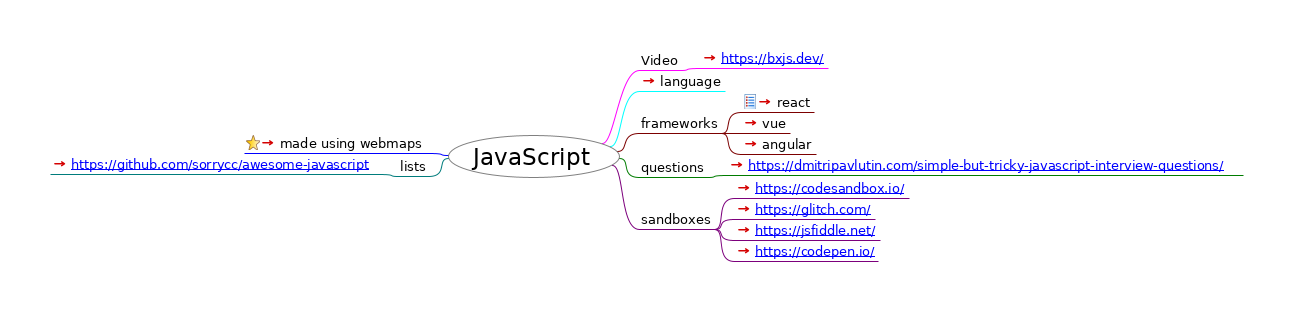
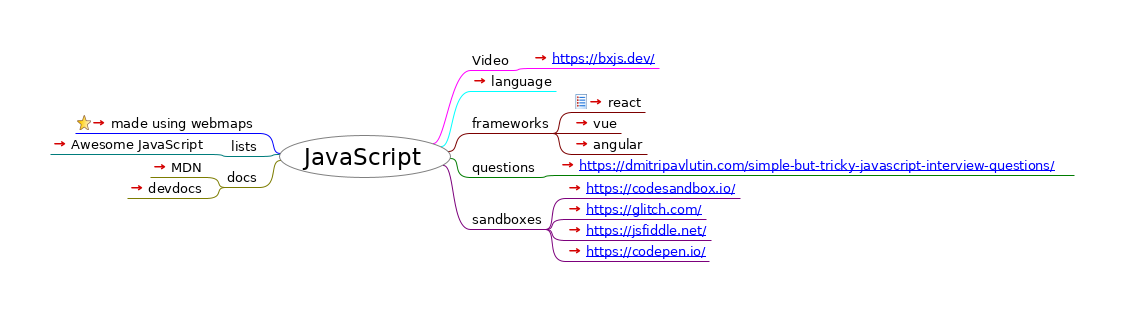
add devdocs

Changed region(s): [[0.0311, 0.1736, 0.9653, 0.8682]]

diff --git a/index.html b/index.html
@@ -23,33 +23,34 @@
                    };
                };
           
-          --></script></head><body><h1>JavaScript</h1><div style="width:96%;  padding:2%;  margin-bottom:10px;  border: 0px;  text-align:center;  vertical-align:center;"><img src="index.html_files/image.png" style="margin-bottom:10px; &#9;border: 0px; &#9;text-align:center; &#9;vertical-align:center;" alt="Imagemap" usemap="#fm_imagemap" /></div><map name="fm_imagemap" id="fm_imagemap"><area shape="rect" href="#FMID_110073400FM" alt="JavaScript" title="JavaScript" coords="448,135,620,178" />
-<area shape="rect" href="https://github.com/solidpayorg/webmaps/" alt="made using webmaps" title="made using webmaps" coords="244,135,429,153" />
-<area shape="rect" href="#FMID_829378880FM" alt="lists" title="lists" coords="398,158,429,176" />
-<area shape="rect" href="https://github.com/sorrycc/awesome-javascript" alt="https://github.com/sorrycc/awesome-javas ..." title="https://github.com/sorrycc/awesome-javas ..." coords="50,156,379,174" />
-<area shape="rect" href="#FMID_849215328FM" alt="Video" title="Video" coords="639,52,681,70" />
-<area shape="rect" href="https://bxjs.dev/" alt="https://bxjs.dev/" title="https://bxjs.dev/" coords="700,50,828,68" />
-<area shape="rect" href="language.html" alt="language" title="language" coords="639,73,725,91" />
-<area shape="rect" href="#FMID_153818301FM" alt="frameworks" title="frameworks" coords="639,115,722,133" />
-<area shape="rect" href="react/index.html" alt="react" title="react" coords="741,94,814,112" />
-<area shape="rect" href="https://vuejs.org/" alt="vue" title="vue" coords="741,115,790,133" />
-<area shape="rect" href="https://angular.io/" alt="angular" title="angular" coords="741,136,816,154" />
-<area shape="rect" href="#FMID_1450636763FM" alt="questions" title="questions" coords="639,159,708,177" />
-<area shape="rect" href="https://dmitripavlutin.com/simple-but-tricky-javascript-interview-questions/" alt="https://dmitripavlutin.com/simple-but-tr ..." title="https://dmitripavlutin.com/simple-but-tr ..." coords="727,157,1243,175" />
-<area shape="rect" href="#FMID_1460537766FM" alt="sandboxes" title="sandboxes" coords="639,211,715,229" />
-<area shape="rect" href="https://codesandbox.io/" alt="https://codesandbox.io/" title="https://codesandbox.io/" coords="734,180,909,198" />
-<area shape="rect" href="https://glitch.com/" alt="https://glitch.com/" title="https://glitch.com/" coords="734,201,875,219" />
-<area shape="rect" href="https://jsfiddle.net/" alt="https://jsfiddle.net/" title="https://jsfiddle.net/" coords="734,222,880,240" />
-<area shape="rect" href="https://codepen.io/" alt="https://codepen.io/" title="https://codepen.io/" coords="734,243,878,261" />
+          --></script></head><body><h1>JavaScript</h1><div style="width:96%;  padding:2%;  margin-bottom:10px;  border: 0px;  text-align:center;  vertical-align:center;"><img src="index.html_files/image.png" style="margin-bottom:10px; &#9;border: 0px; &#9;text-align:center; &#9;vertical-align:center;" alt="Imagemap" usemap="#fm_imagemap" /></div><map name="fm_imagemap" id="fm_imagemap"><area shape="rect" href="#FMID_110073400FM" alt="JavaScript" title="JavaScript" coords="279,135,451,178" />
+<area shape="rect" href="https://github.com/solidpayorg/webmaps/" alt="made using webmaps" title="made using webmaps" coords="75,115,260,133" />
+<area shape="rect" href="#FMID_829378880FM" alt="lists" title="lists" coords="229,138,260,156" />
+<area shape="rect" href="https://github.com/sorrycc/awesome-javascript" alt="Awesome JavaScript" title="Awesome JavaScript" coords="50,136,210,154" />
+<area shape="rect" href="#FMID_1425964050FM" alt="docs" title="docs" coords="225,169,260,187" />
+<area shape="rect" href="https://developer.mozilla.org/en-US/docs/Web/JavaScript" alt="MDN" title="MDN" coords="150,159,206,177" />
+<area shape="rect" href="https://devdocs.io/javascript/" alt="devdocs" title="devdocs" coords="127,180,206,198" />
+<area shape="rect" href="#FMID_849215328FM" alt="Video" title="Video" coords="470,52,512,70" />
+<area shape="rect" href="https://bxjs.dev/" alt="https://bxjs.dev/" title="https://bxjs.dev/" coords="531,50,659,68" />
+<area shape="rect" href="language.html" alt="language" title="language" coords="470,73,556,91" />
+<area shape="rect" href="#FMID_153818301FM" alt="frameworks" title="frameworks" coords="470,115,553,133" />
+<area shape="rect" href="react/index.html" alt="react" title="react" coords="572,94,645,112" />
+<area shape="rect" href="https://vuejs.org/" alt="vue" title="vue" coords="572,115,621,133" />
+<area shape="rect" href="https://angular.io/" alt="angular" title="angular" coords="572,136,647,154" />
+<area shape="rect" href="#FMID_1450636763FM" alt="questions" title="questions" coords="470,159,539,177" />
+<area shape="rect" href="https://dmitripavlutin.com/simple-but-tricky-javascript-interview-questions/" alt="https://dmitripavlutin.com/simple-but-tr ..." title="https://dmitripavlutin.com/simple-but-tr ..." coords="558,157,1074,175" />
+<area shape="rect" href="#FMID_1460537766FM" alt="sandboxes" title="sandboxes" coords="470,211,546,229" />
+<area shape="rect" href="https://codesandbox.io/" alt="https://codesandbox.io/" title="https://codesandbox.io/" coords="565,180,740,198" />
+<area shape="rect" href="https://glitch.com/" alt="https://glitch.com/" title="https://glitch.com/" coords="565,201,706,219" />
+<area shape="rect" href="https://jsfiddle.net/" alt="https://jsfiddle.net/" title="https://jsfiddle.net/" coords="565,222,711,240" />
+<area shape="rect" href="https://codepen.io/" alt="https://codepen.io/" title="https://codepen.io/" coords="565,243,709,261" />
 </map>
 
-<div class="node"><img src="index.html_files/hide.png" class="hideshow" alt="hide" onClick="toggle(&quot;N65543&quot;)" id="imgN65543" /><a id="FMID_110073400FM" /><div class="nodecontent" style="color:#000000;font-size:150%;">JavaScript</div><div class="content" id="N65543"><div class="node"><img src="index.html_files/leaf.png" class="hideshow" alt="leaf" /><img src="index.html_files/icons/bookmark.svg" alt="bookmark" /> <a id="FMID_634574866FM" /><div class="nodecontent" style="color:#000000;font-size:83%;"><a href="https://github.com/solidpayorg/webmaps/">made using webmaps</a> <a href="https://github.com/solidpayorg/webmaps/"><img src="index.html_files/ilink.png" alt="User Link" style="border-width:0" /></a></div></div><div class="node"><img src="index.html_files/hide.png" class="hideshow" alt="hide" onClick="toggle(&quot;N66482&quot;)" id="imgN66482" /><a id="FMID_829378880FM" /><div class="nodecontent" style="color:#000000;font-size:83%;">lists</div><div class="content" id="N66482"><div class="node"><img src="index.html_files/leaf.png" class="hideshow" alt="leaf" /><a id="FMID_157748484FM" /><div class="nodecontent" style="color:#000000;font-size:83%;"><a href="https://github.com/sorrycc/awesome-javascript">
-    <a http-equiv="content-type" content="text/html; charset=utf-8" href="https://github.com/sorrycc/awesome-javascript">https://github.com/sorrycc/awesome-javascript</a>
-  </a> <a href="https://github.com/sorrycc/awesome-javascript"><img src="index.html_files/ilink.png" alt="User Link" style="border-width:0" /></a></div></div></div></div><div class="node"><img src="index.html_files/hide.png" class="hideshow" alt="hide" onClick="toggle(&quot;N66574&quot;)" id="imgN66574" /><a id="FMID_849215328FM" /><div class="nodecontent" style="color:#000000;font-size:83%;">Video</div><div class="content" id="N66574"><div class="node"><img src="index.html_files/leaf.png" class="hideshow" alt="leaf" /><a id="FMID_1384859362FM" /><div class="nodecontent" style="color:#000000;font-size:83%;"><a href="https://bxjs.dev/">
+<div class="node"><img src="index.html_files/hide.png" class="hideshow" alt="hide" onClick="toggle(&quot;N65543&quot;)" id="imgN65543" /><a id="FMID_110073400FM" /><div class="nodecontent" style="color:#000000;font-size:150%;">JavaScript</div><div class="content" id="N65543"><div class="node"><img src="index.html_files/leaf.png" class="hideshow" alt="leaf" /><img src="index.html_files/icons/bookmark.svg" alt="bookmark" /> <a id="FMID_634574866FM" /><div class="nodecontent" style="color:#000000;font-size:83%;"><a href="https://github.com/solidpayorg/webmaps/">made using webmaps</a> <a href="https://github.com/solidpayorg/webmaps/"><img src="index.html_files/ilink.png" alt="User Link" style="border-width:0" /></a></div></div><div class="node"><img src="index.html_files/hide.png" class="hideshow" alt="hide" onClick="toggle(&quot;N66482&quot;)" id="imgN66482" /><a id="FMID_829378880FM" /><div class="nodecontent" style="color:#000000;font-size:83%;">lists</div><div class="content" id="N66482"><div class="node"><img src="index.html_files/leaf.png" class="hideshow" alt="leaf" /><a id="FMID_157748484FM" /><div class="nodecontent" style="color:#000000;font-size:83%;"><a href="https://github.com/sorrycc/awesome-javascript">Awesome JavaScript</a> <a href="https://github.com/sorrycc/awesome-javascript"><img src="index.html_files/ilink.png" alt="User Link" style="border-width:0" /></a></div></div></div></div><div class="node"><img src="index.html_files/hide.png" class="hideshow" alt="hide" onClick="toggle(&quot;N66556&quot;)" id="imgN66556" /><a id="FMID_1425964050FM" /><div class="nodecontent" style="color:#000000;font-size:83%;">docs</div><div class="content" id="N66556"><div class="node"><img src="index.html_files/leaf.png" class="hideshow" alt="leaf" /><a id="FMID_773205118FM" /><div class="nodecontent" style="color:#000000;font-size:83%;"><a href="https://developer.mozilla.org/en-US/docs/Web/JavaScript">MDN</a> <a href="https://developer.mozilla.org/en-US/docs/Web/JavaScript"><img src="index.html_files/ilink.png" alt="User Link" style="border-width:0" /></a></div></div><div class="node"><img src="index.html_files/leaf.png" class="hideshow" alt="leaf" /><a id="FMID_83129282FM" /><div class="nodecontent" style="color:#000000;font-size:83%;"><a href="https://devdocs.io/javascript/">devdocs</a> <a href="https://devdocs.io/javascript/"><img src="index.html_files/ilink.png" alt="User Link" style="border-width:0" /></a></div></div></div></div><div class="node"><img src="index.html_files/hide.png" class="hideshow" alt="hide" onClick="toggle(&quot;N66667&quot;)" id="imgN66667" /><a id="FMID_849215328FM" /><div class="nodecontent" style="color:#000000;font-size:83%;">Video</div><div class="content" id="N66667"><div class="node"><img src="index.html_files/leaf.png" class="hideshow" alt="leaf" /><a id="FMID_1384859362FM" /><div class="nodecontent" style="color:#000000;font-size:83%;"><a href="https://bxjs.dev/">
     <a http-equiv="content-type" content="text/html; charset=utf-8" href="https://bxjs.dev/">https://bxjs.dev/</a>
-  </a> <a href="https://bxjs.dev/"><img src="index.html_files/ilink.png" alt="User Link" style="border-width:0" /></a></div></div></div></div><div class="node"><img src="index.html_files/leaf.png" class="hideshow" alt="leaf" /><a id="FMID_1566689685FM" /><div class="nodecontent" style="color:#000000;font-size:83%;"><a href="language.html">language</a> <a href="language.html"><img src="index.html_files/ilink.png" alt="User Link" style="border-width:0" /></a></div></div><div class="node"><img src="index.html_files/hide.png" class="hideshow" alt="hide" onClick="toggle(&quot;N66704&quot;)" id="imgN66704" /><a id="FMID_153818301FM" /><div class="nodecontent" style="color:#000000;font-size:83%;">frameworks</div><div class="content" id="N66704"><div class="node"><img src="index.html_files/leaf.png" class="hideshow" alt="leaf" /><img src="index.html_files/icons/list.svg" alt="list" /> <a id="FMID_921980201FM" /><div class="nodecontent" style="color:#000000;font-size:83%;"><a href="react/index.html">react</a> <a href="react/index.html"><img src="index.html_files/ilink.png" alt="User Link" style="border-width:0" /></a></div></div><div class="node"><img src="index.html_files/leaf.png" class="hideshow" alt="leaf" /><a id="FMID_850712897FM" /><div class="nodecontent" style="color:#000000;font-size:83%;"><a href="https://vuejs.org/">vue</a> <a href="https://vuejs.org/"><img src="index.html_files/ilink.png" alt="User Link" style="border-width:0" /></a></div></div><div class="node"><img src="index.html_files/leaf.png" class="hideshow" alt="leaf" /><a id="FMID_101804111FM" /><div class="nodecontent" style="color:#000000;font-size:83%;"><a href="https://angular.io/">angular</a> <a href="https://angular.io/"><img src="index.html_files/ilink.png" alt="User Link" style="border-width:0" /></a></div></div></div></div><div class="node"><img src="index.html_files/hide.png" class="hideshow" alt="hide" onClick="toggle(&quot;N66857&quot;)" id="imgN66857" /><a id="FMID_1450636763FM" /><div class="nodecontent" style="color:#000000;font-size:83%;">questions</div><div class="content" id="N66857"><div class="node"><img src="index.html_files/leaf.png" class="hideshow" alt="leaf" /><a id="FMID_83102648FM" /><div class="nodecontent" style="color:#000000;font-size:83%;"><a href="https://dmitripavlutin.com/simple-but-tricky-javascript-interview-questions/">
+  </a> <a href="https://bxjs.dev/"><img src="index.html_files/ilink.png" alt="User Link" style="border-width:0" /></a></div></div></div></div><div class="node"><img src="index.html_files/leaf.png" class="hideshow" alt="leaf" /><a id="FMID_1566689685FM" /><div class="nodecontent" style="color:#000000;font-size:83%;"><a href="language.html">language</a> <a href="language.html"><img src="index.html_files/ilink.png" alt="User Link" style="border-width:0" /></a></div></div><div class="node"><img src="index.html_files/hide.png" class="hideshow" alt="hide" onClick="toggle(&quot;N66797&quot;)" id="imgN66797" /><a id="FMID_153818301FM" /><div class="nodecontent" style="color:#000000;font-size:83%;">frameworks</div><div class="content" id="N66797"><div class="node"><img src="index.html_files/leaf.png" class="hideshow" alt="leaf" /><img src="index.html_files/icons/list.svg" alt="list" /> <a id="FMID_921980201FM" /><div class="nodecontent" style="color:#000000;font-size:83%;"><a href="react/index.html">react</a> <a href="react/index.html"><img src="index.html_files/ilink.png" alt="User Link" style="border-width:0" /></a></div></div><div class="node"><img src="index.html_files/leaf.png" class="hideshow" alt="leaf" /><a id="FMID_850712897FM" /><div class="nodecontent" style="color:#000000;font-size:83%;"><a href="https://vuejs.org/">vue</a> <a href="https://vuejs.org/"><img src="index.html_files/ilink.png" alt="User Link" style="border-width:0" /></a></div></div><div class="node"><img src="index.html_files/leaf.png" class="hideshow" alt="leaf" /><a id="FMID_101804111FM" /><div class="nodecontent" style="color:#000000;font-size:83%;"><a href="https://angular.io/">angular</a> <a href="https://angular.io/"><img src="index.html_files/ilink.png" alt="User Link" style="border-width:0" /></a></div></div></div></div><div class="node"><img src="index.html_files/hide.png" class="hideshow" alt="hide" onClick="toggle(&quot;N66950&quot;)" id="imgN66950" /><a id="FMID_1450636763FM" /><div class="nodecontent" style="color:#000000;font-size:83%;">questions</div><div class="content" id="N66950"><div class="node"><img src="index.html_files/leaf.png" class="hideshow" alt="leaf" /><a id="FMID_83102648FM" /><div class="nodecontent" style="color:#000000;font-size:83%;"><a href="https://dmitripavlutin.com/simple-but-tricky-javascript-interview-questions/">
     <a http-equiv="content-type" content="text/html; charset=utf-8" href="https://dmitripavlutin.com/simple-but-tricky-javascript-interview-questions/">https://dmitripavlutin.com/simple-but-tricky-javascript-interview-questions/</a>
-  </a> <a href="https://dmitripavlutin.com/simple-but-tricky-javascript-interview-questions/"><img src="index.html_files/ilink.png" alt="User Link" style="border-width:0" /></a></div></div></div></div><div class="node"><img src="index.html_files/hide.png" class="hideshow" alt="hide" onClick="toggle(&quot;N66949&quot;)" id="imgN66949" /><a id="FMID_1460537766FM" /><div class="nodecontent" style="color:#000000;font-size:83%;">sandboxes</div><div class="content" id="N66949"><div class="node"><img src="index.html_files/leaf.png" class="hideshow" alt="leaf" /><a id="FMID_899668548FM" /><div class="nodecontent" style="color:#000000;font-size:83%;"><a href="https://codesandbox.io/">
+  </a> <a href="https://dmitripavlutin.com/simple-but-tricky-javascript-interview-questions/"><img src="index.html_files/ilink.png" alt="User Link" style="border-width:0" /></a></div></div></div></div><div class="node"><img src="index.html_files/hide.png" class="hideshow" alt="hide" onClick="toggle(&quot;N67042&quot;)" id="imgN67042" /><a id="FMID_1460537766FM" /><div class="nodecontent" style="color:#000000;font-size:83%;">sandboxes</div><div class="content" id="N67042"><div class="node"><img src="index.html_files/leaf.png" class="hideshow" alt="leaf" /><a id="FMID_899668548FM" /><div class="nodecontent" style="color:#000000;font-size:83%;"><a href="https://codesandbox.io/">
     <a http-equiv="content-type" content="text/html; charset=utf-8" href="https://codesandbox.io/">https://codesandbox.io/</a>
   </a> <a href="https://codesandbox.io/"><img src="index.html_files/ilink.png" alt="User Link" style="border-width:0" /></a></div></div><div class="node"><img src="index.html_files/leaf.png" class="hideshow" alt="leaf" /><a id="FMID_1286093091FM" /><div class="nodecontent" style="color:#000000;font-size:83%;"><a href="https://glitch.com/">
     <a http-equiv="content-type" content="text/html; charset=utf-8" href="https://glitch.com/">https://glitch.com/</a>

diff --git a/index.mm b/index.mm
@@ -63,25 +63,19 @@
 </stylenode>
 </map_styles>
 </hook>
-<hook NAME="AutomaticEdgeColor" COUNTER="10" RULE="ON_BRANCH_CREATION"/>
+<hook NAME="AutomaticEdgeColor" COUNTER="11" RULE="ON_BRANCH_CREATION"/>
 <node TEXT="made using webmaps" POSITION="left" ID="ID_634574866" CREATED="1570294548787" MODIFIED="1570476048397" LINK="https://github.com/solidpayorg/webmaps/">
 <icon BUILTIN="bookmark"/>
 <edge COLOR="#0000ff"/>
 </node>
 <node TEXT="lists" POSITION="left" ID="ID_829378880" CREATED="1571361129403" MODIFIED="1571361131287">
 <edge COLOR="#007c7c"/>
-<node ID="ID_157748484" CREATED="1571361132464" MODIFIED="1571361132464" LINK="https://github.com/sorrycc/awesome-javascript"><richcontent TYPE="NODE">
-
-<html>
-  <head>
-    
-  </head>
-  <body>
-    <a http-equiv="content-type" content="text/html; charset=utf-8" href="https://github.com/sorrycc/awesome-javascript">https://github.com/sorrycc/awesome-javascript</a> 
-  </body>
-</html>
-</richcontent>
+<node TEXT="Awesome JavaScript" ID="ID_157748484" CREATED="1571361132464" MODIFIED="1572498017973" LINK="https://github.com/sorrycc/awesome-javascript"/>
 </node>
+<node TEXT="docs" POSITION="left" ID="ID_1425964050" CREATED="1572497990298" MODIFIED="1572497991562">
+<edge COLOR="#7c7c00"/>
+<node TEXT="MDN" ID="ID_773205118" CREATED="1572497994071" MODIFIED="1572498002669" LINK="https://developer.mozilla.org/en-US/docs/Web/JavaScript"/>
+<node TEXT="devdocs" ID="ID_83129282" CREATED="1572498043641" MODIFIED="1572498048395" LINK="https://devdocs.io/javascript/"/>
 </node>
 <node TEXT="Video" POSITION="right" ID="ID_849215328" CREATED="1570476065863" MODIFIED="1570476114594">
 <edge COLOR="#ff00ff"/>
